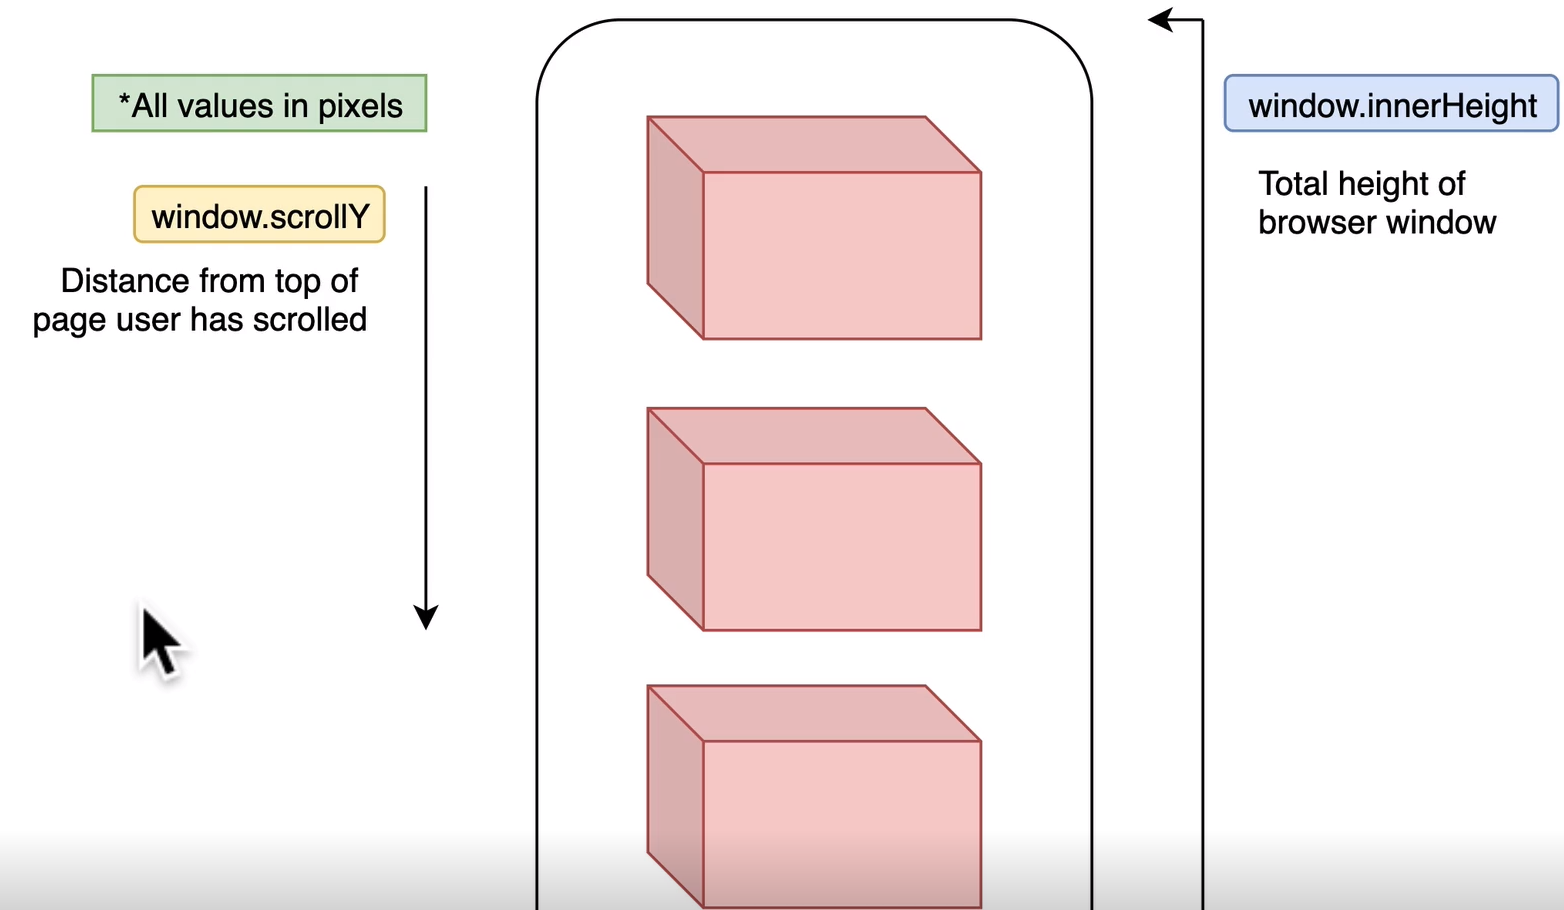
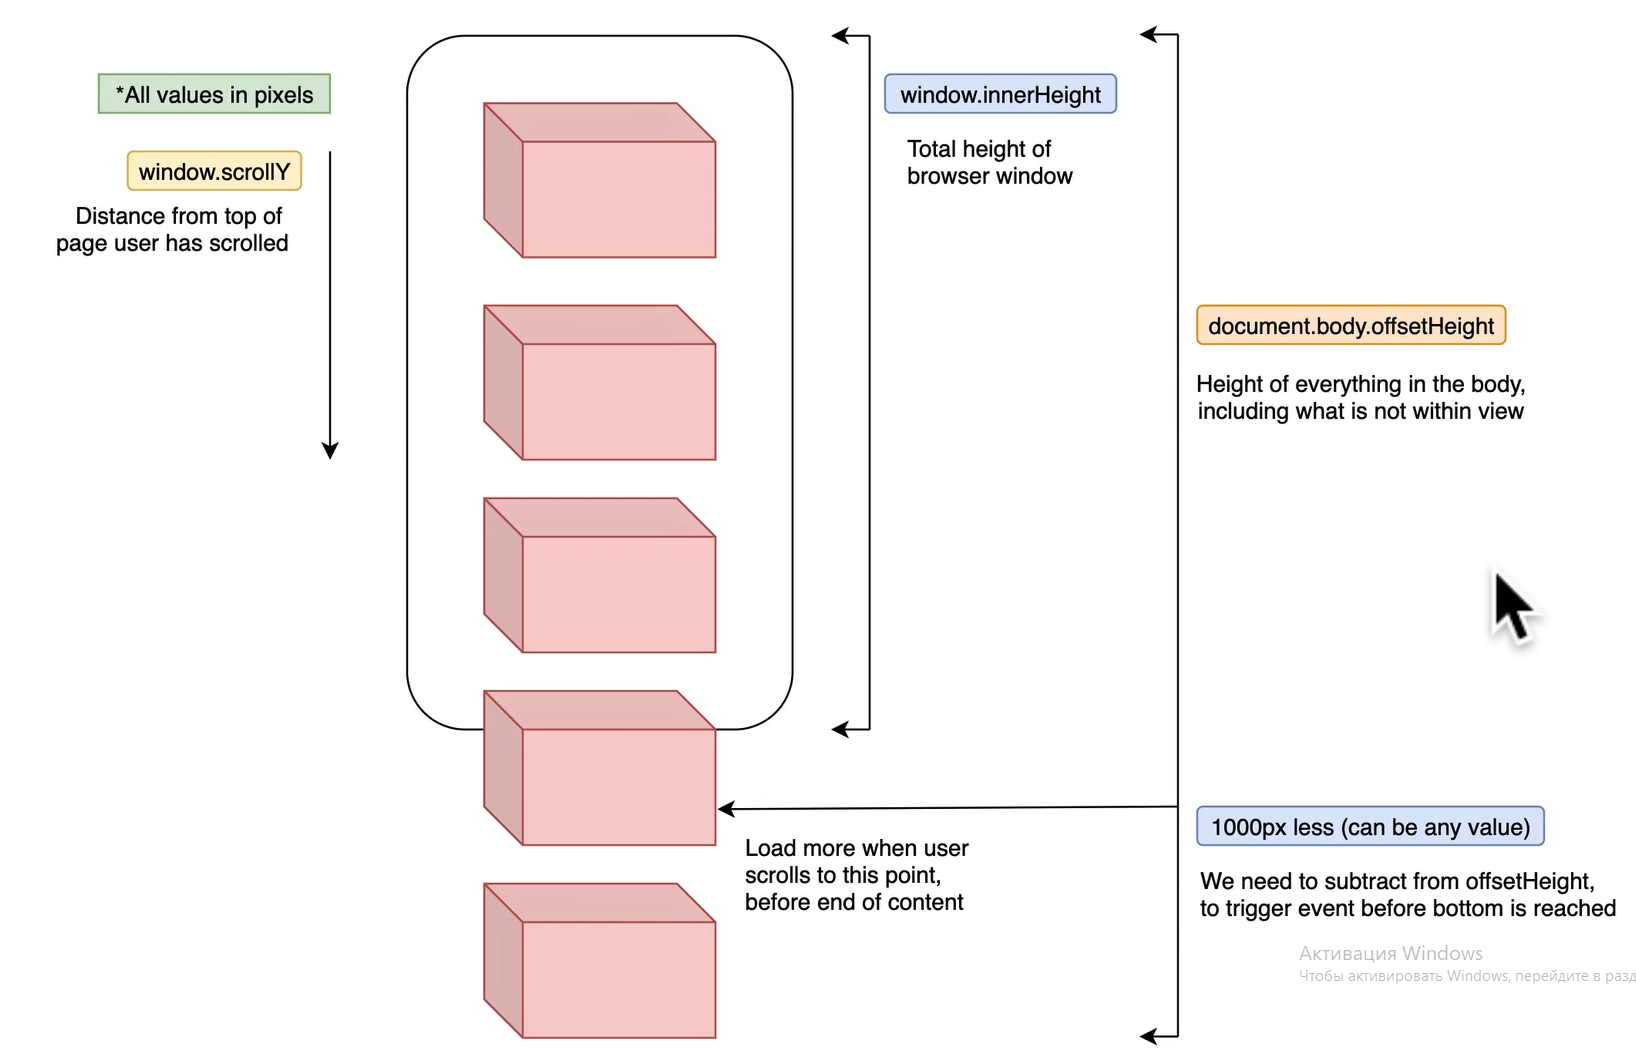
scroll part one end

diff --git a/templates/infinity-scroll/scripts.js b/templates/infinity-scroll/scripts.js
@@ -2,7 +2,7 @@ console.log("Начало работы")
 const imageContainer = document.getElementById('image-container');
 const loader = document.getElementById('loader');
 
-// let ready = false;
+let ready = false;
 // let imagesLoaded = 0;
 // let totalImages = 0;
 let photosArray = [];
@@ -36,8 +36,7 @@ function displayPhotos(data) {
 async function getPhotos() {
     try {
         const response = await fetch(apiUrl);
-        const photosArray = await response.json();
-        console.log(photosArray);
+        const photosArray = await response.json();        
         displayPhotos(photosArray);
 
     } catch (error) {
@@ -45,12 +44,10 @@ async function getPhotos() {
     }
 }
 // Check to see if scrolling near bottom of page, Load More Photos
-window.addEventListener('scroll', () => {
-    // if (window.innerHeight + window.scrollY >= document.body.offsetHeight - 1000 && ready) {
-    // //   ready = false;
-    // //   getPhotos();
-    // }
-    console.log(window.scrollY)
+window.addEventListener('scroll', () => {    
+    if (window.innerHeight + window.scrollY >= document.body.offsetHeight - 1000 ) {      
+      getPhotos();      
+    }    
   });
 
 // On Load

diff --git a/templates/infinity-scroll/index.html b/templates/infinity-scroll/index.html
@@ -131,7 +131,15 @@
             <li><code>scrollY</code> - на сколько пикселей страница пролистана вниз</li>
             <li><code>pageYOffset</code> - то ж самое</li>
             <li><code>scrollTop</code> - насколько пикселей пролистано от начала элемента до видимой области</li>
+            <li><code>offsetWidth</code>/<code>Height</code>: содержат полный размер (ширину/высоту) элемента, включая рамки.</li>
         </ul>
+        <pre><code>
+            window.addEventListener('scroll', () => {    
+                if (window.innerHeight + window.scrollY >= document.body.offsetHeight - 1000 ) {      
+                  getPhotos();      
+                }    
+              });
+        </code></pre>
     </div>
     <div class="container">
 

diff --git a/templates/infinity-scroll/style.css b/templates/infinity-scroll/style.css
@@ -49,7 +49,7 @@ p {
 }
 
 .alert {
-    margin-top: 1rem;
+    margin: 1rem 10%;
     text-align: left;
 }
 
